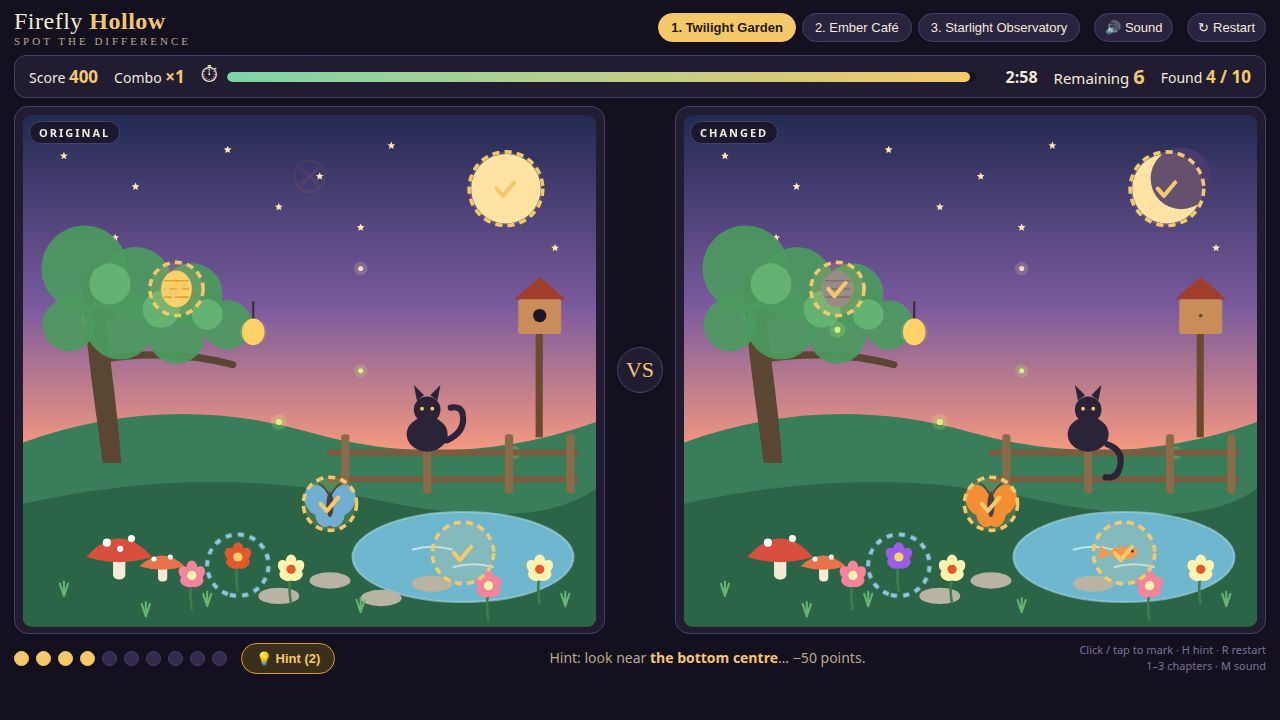
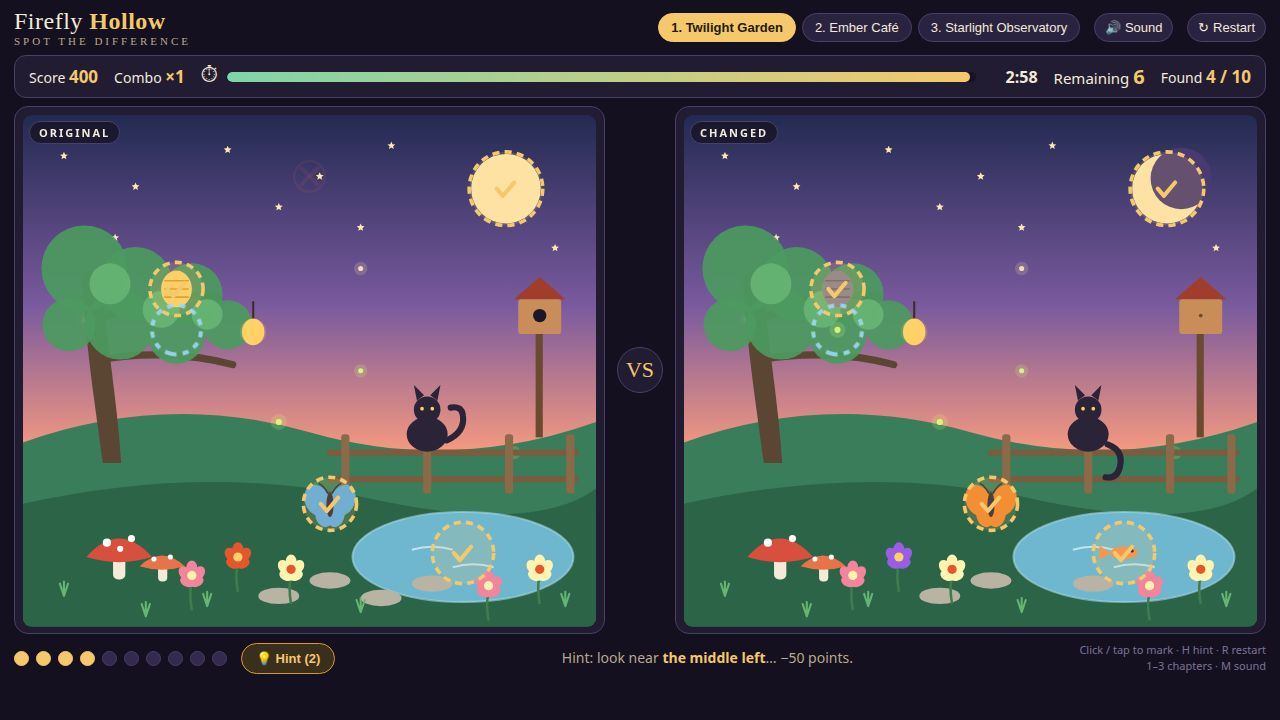
Fix hit-test: click picks the nearest difference, not the first in range
The garden lantern (150,170) and its firefly (150,210) overlap in radius;
first-match could credit the wrong one. Nearest-match wins now.

diff --git a/game/src/main.js b/game/src/main.js
@@ -117,12 +117,22 @@ function onPick(x, y, panel) {
   if (!state.playing || state.paused) return;
   sound.ensure();
   const svg = panel === 'left' ? leftSvg : rightSvg;
-  const hit = state.scene.differences.find((d) => {
-    if (state.found.has(d.id)) return false;
+  // Nearest unfound difference within its radius: two differences can sit
+  // close together (the garden's lantern and its firefly), so the closest
+  // one wins the click instead of whichever is listed first.
+  let hit = null;
+  let hitDistance = Infinity;
+  for (const d of state.scene.differences) {
+    if (state.found.has(d.id)) continue;
     const dx = x - d.x;
     const dy = y - d.y;
-    return dx * dx + dy * dy <= (d.r + 8) * (d.r + 8);
-  });
+    const distance = dx * dx + dy * dy;
+    const reach = d.r + 8;
+    if (distance <= reach * reach && distance < hitDistance) {
+      hit = d;
+      hitDistance = distance;
+    }
+  }
   if (hit) {
     state.found.add(hit.id);
     const points = CONFIG.pointsPerFind + (state.combo - 1) * CONFIG.comboStep;
